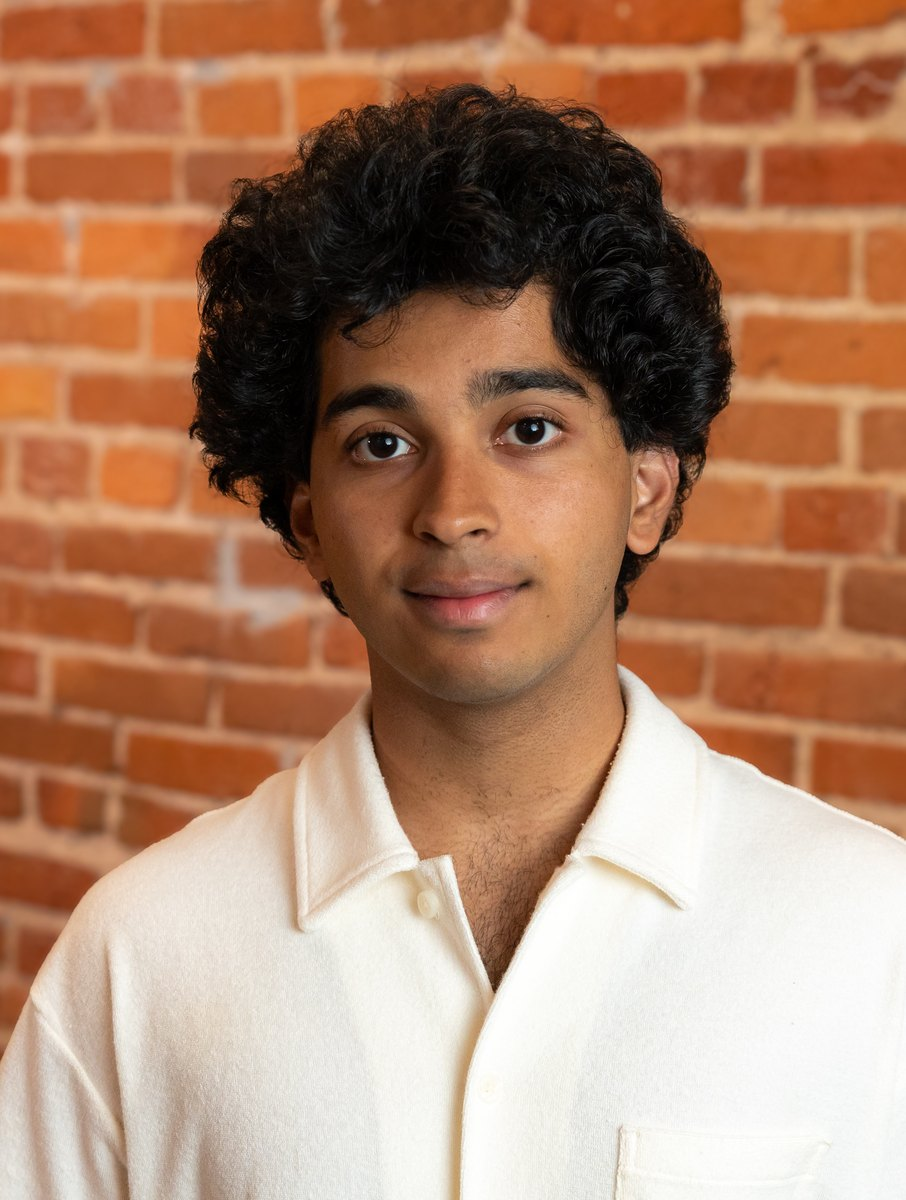
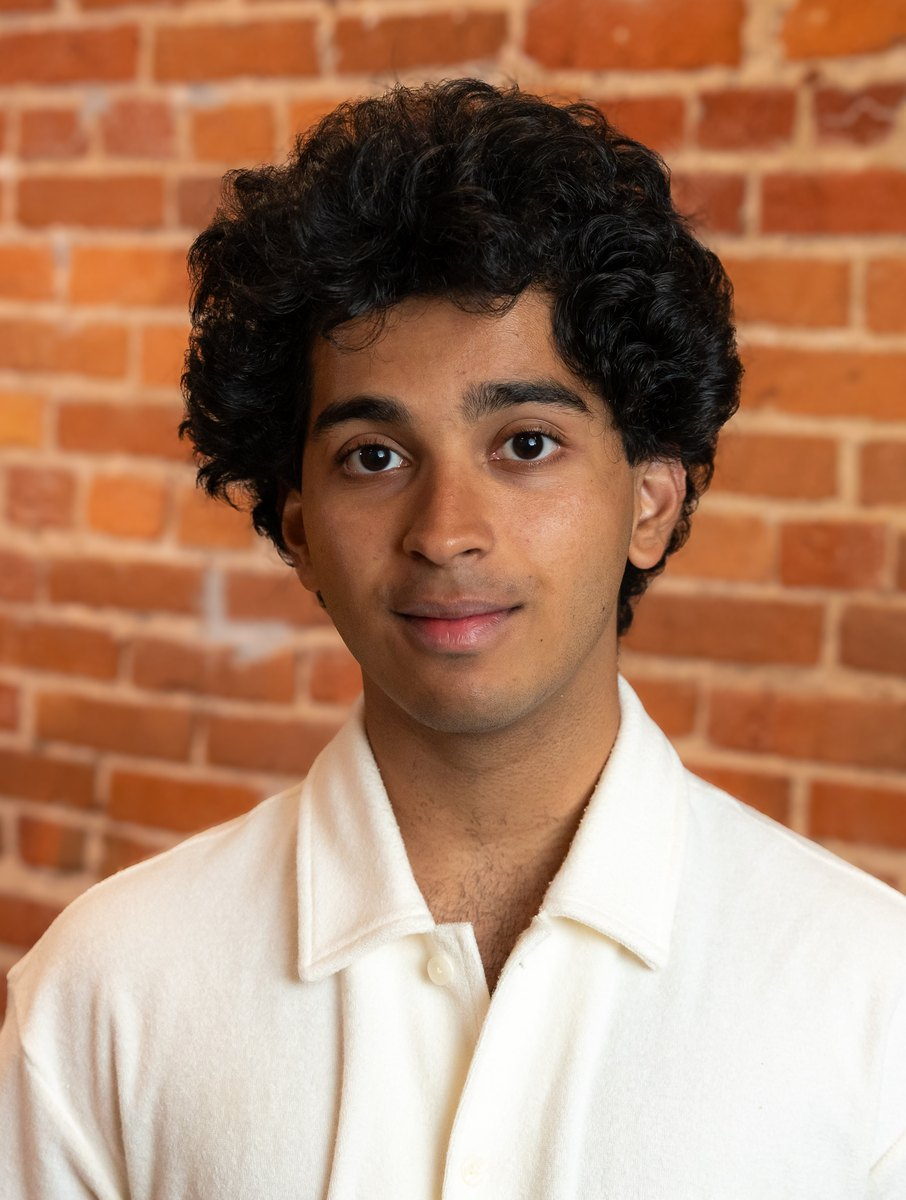
About: the other headshot from the same shoot

diff --git a/me.html b/me.html
@@ -142,7 +142,7 @@
 
   <div class="me-wrap">
   <article class="page me">
-    <img class="portrait" src="site/img/yash.jpg?v=2026-09" width="906" height="1200" alt="Portrait of Yash Dagade">
+    <img class="portrait" src="site/img/yash.jpg?v=2026-09b" width="906" height="1200" alt="Portrait of Yash Dagade">
     <h1>Hey, I’m Yash.</h1>
 
     <p>I love <a href="index.html#build">building</a>. I’m a junior at Duke. I am interested in energy and intelligence; I think they are the defining problems of our generation. I like to think deeply about the nature of intelligence. I am interested in the normative question of how we ought to build it. This has inspired my love for energy-based models and JEPAs. For the past year and a half or so, I have been fortunate to work with <a href="https://scholar.google.com/citations?user=kbxHcKEAAAAJ&amp;hl=en" target="_blank" rel="noopener">Haoran Zhu</a>, <a href="https://yilunkuang.github.io/" target="_blank" rel="noopener">Yilun Kuang</a> and <a href="http://yann.lecun.com/" target="_blank" rel="noopener">Yann LeCun</a>. Our work probes the characteristics of optimal energy functions.</p>
